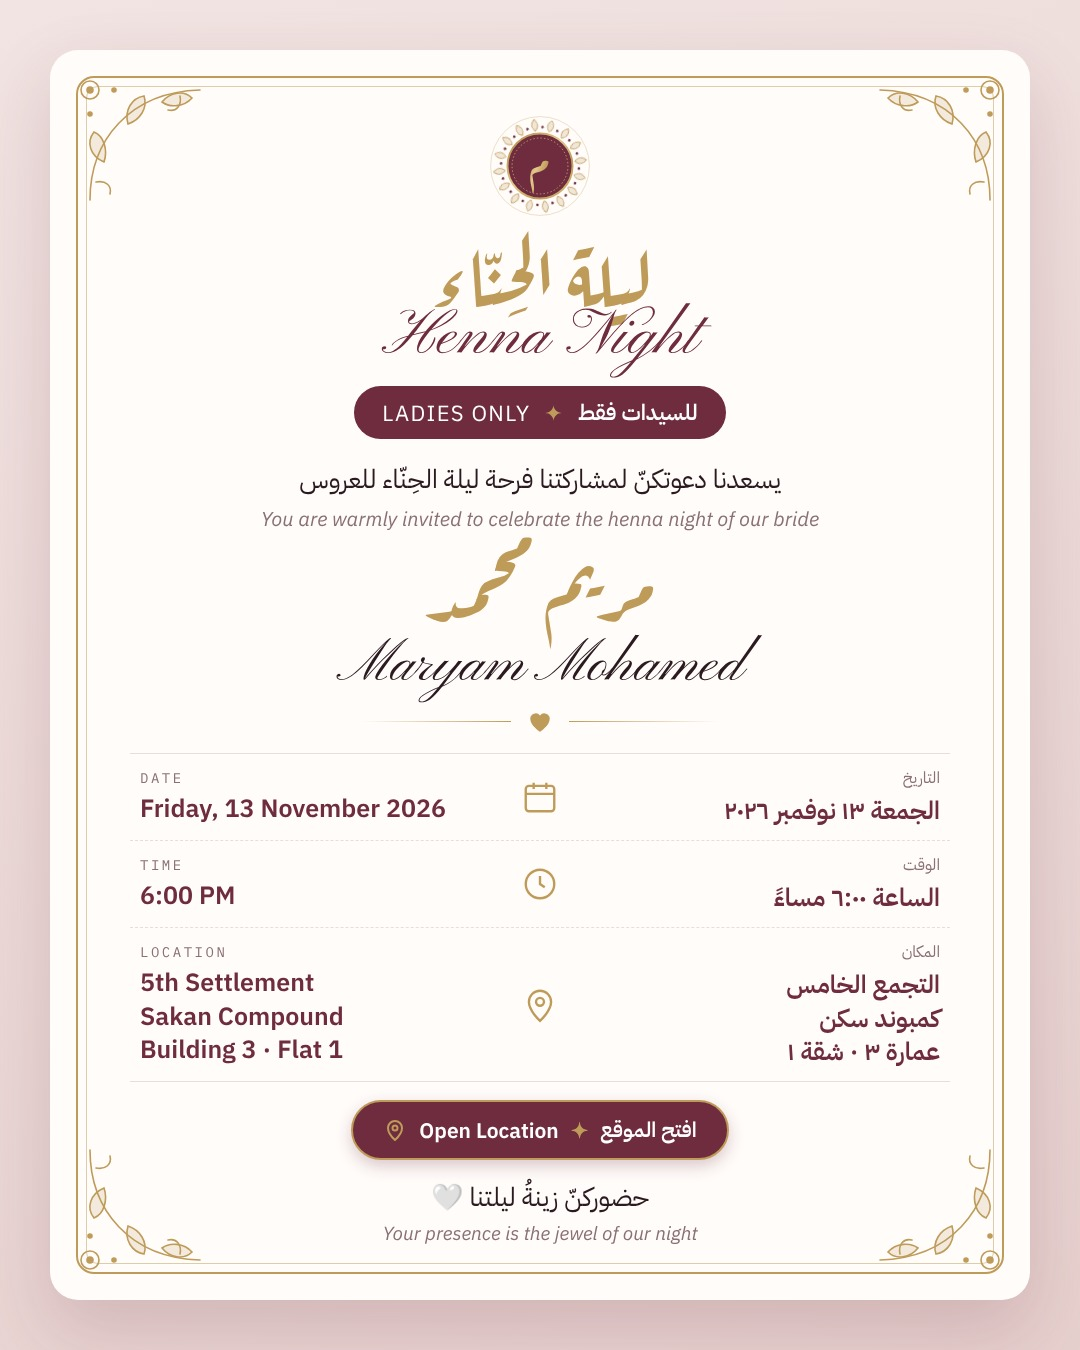
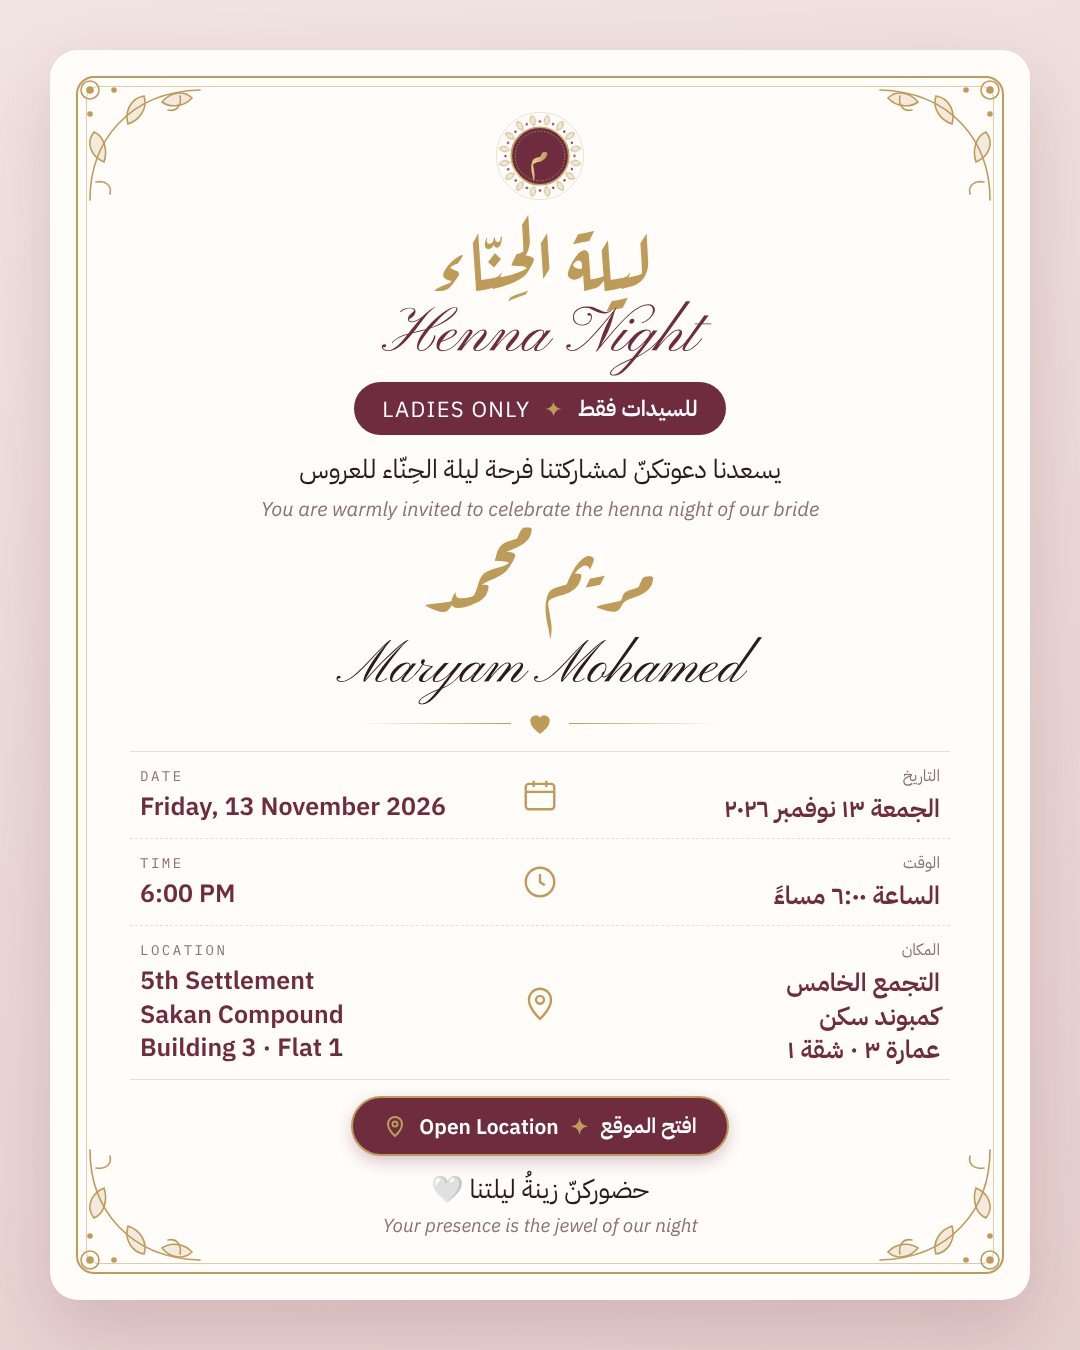
Envelope opening animation, phone layout, spacing fixes for overlapping text
Claude-Session: https://claude.ai/code/session_018cTkyYSzpqAWez1BLMQnpX

diff --git a/index.html b/index.html
@@ -29,22 +29,22 @@
   .c1{top:20px;left:20px}.c2{top:20px;right:20px;transform:scaleX(-1)}
   .c3{bottom:20px;left:20px;transform:scaleY(-1)}.c4{bottom:20px;right:20px;transform:scale(-1,-1)}
   .content{z-index:2;position:absolute;inset:60px 80px;display:flex;flex-direction:column;align-items:center;text-align:center}
-  .mandala{flex:none;width:104px;height:104px;margin-top:4px}
+  .mandala{flex:none;width:92px;height:92px;margin-top:0}
   .mandala .ring{animation:spin 60s linear infinite}
   @keyframes spin{to{transform:rotate(360deg)}}
   .ar-title{font-family:'Aref Ruqaa';color:var(--gold);font-size:84px;line-height:1.05;margin-top:4px}
-  .en-title{font-family:'Pinyon Script';color:var(--burg);font-size:64px;line-height:1;margin-top:-4px}
-  .badge{margin-top:16px;display:inline-flex;gap:14px;align-items:center;background:var(--burg);color:#fff;padding:10px 28px;border-radius:40px;font-size:22px;letter-spacing:.06em}
+  .en-title{font-family:'Pinyon Script';color:var(--burg);font-size:64px;line-height:1;margin-top:10px}
+  .badge{margin-top:14px;display:inline-flex;gap:14px;align-items:center;background:var(--burg);color:#fff;padding:10px 28px;border-radius:40px;font-size:22px;letter-spacing:.06em}
   .badge .ar{font-family:'IBM Plex Sans Arabic';font-weight:600;letter-spacing:0}
   .badge .dot{color:var(--gold)}
-  .intro-ar{font-family:'IBM Plex Sans Arabic';font-size:26px;color:var(--ink);margin-top:20px;direction:rtl;line-height:1.6}
+  .intro-ar{font-family:'IBM Plex Sans Arabic';font-size:26px;color:var(--ink);margin-top:14px;direction:rtl;line-height:1.6}
   .intro-en{font-size:20px;color:var(--muted);margin-top:4px;font-style:italic}
   .bride-ar{font-family:'Aref Ruqaa';color:var(--gold);font-size:76px;line-height:1.1;margin-top:12px}
-  .bride-en{font-family:'Pinyon Script';color:var(--ink);font-size:58px;line-height:1;margin-top:10px}
+  .bride-en{font-family:'Pinyon Script';color:var(--ink);font-size:58px;line-height:1;margin-top:22px}
   .divider{display:flex;align-items:center;gap:16px;margin:14px 0 2px;color:var(--gold)}
   .divider span{display:block;width:150px;height:1px;background:linear-gradient(90deg,transparent,var(--gold))}
   .divider span:last-child{background:linear-gradient(270deg,transparent,var(--gold))}
-  .details{width:100%;margin-top:18px;border-top:1px solid var(--rule);border-bottom:1px solid var(--rule)}
+  .details{width:100%;margin-top:14px;border-top:1px solid var(--rule);border-bottom:1px solid var(--rule)}
   .row{display:grid;grid-template-columns:1fr 70px 1fr;align-items:center;padding:12px 10px;border-bottom:1px dashed var(--rule)}
   .row:last-child{border-bottom:0}
   .locrow{color:inherit;text-decoration:none;cursor:pointer}
@@ -55,9 +55,9 @@
   .val{font-size:25px;font-weight:600;color:var(--burg);margin-top:4px;line-height:1.35}
   .ico{display:flex;justify-content:center}
   .ico svg{width:38px;height:38px}
-  .closing-ar{font-family:'IBM Plex Sans Arabic';font-size:26px;margin-top:18px;color:var(--ink);direction:rtl}
+  .closing-ar{font-family:'IBM Plex Sans Arabic';font-size:26px;margin-top:14px;color:var(--ink);direction:rtl}
   .closing-en{font-size:19px;color:var(--muted);font-style:italic;margin-top:4px}
-.mapbtn{margin-top:18px;display:inline-flex;align-items:center;gap:12px;background:var(--burg);color:#fff;text-decoration:none;padding:12px 30px;border-radius:40px;font-size:21px;font-weight:600;border:2px solid var(--gold);box-shadow:0 6px 16px rgba(110,44,62,.25)}
+.mapbtn{margin-top:16px;display:inline-flex;align-items:center;gap:12px;background:var(--burg);color:#fff;text-decoration:none;padding:12px 30px;border-radius:40px;font-size:21px;font-weight:600;border:2px solid var(--gold);box-shadow:0 6px 16px rgba(110,44,62,.25)}
   .mapbtn .ar{font-family:'IBM Plex Sans Arabic'}
   .mapbtn svg{width:24px;height:24px}
   #hearts{position:absolute;inset:0;z-index:1;pointer-events:none;overflow:hidden;border-radius:28px}
@@ -65,11 +65,91 @@
   #bg{position:fixed;inset:0;pointer-events:none;overflow:hidden}
   #bg svg{position:absolute;bottom:-60px;animation:rise linear infinite;opacity:0}
   @keyframes rise{0%{transform:translateY(0) rotate(-10deg);opacity:0}10%{opacity:.55}50%{transform:translateY(-55vh) translateX(25px) rotate(10deg)}90%{opacity:.5}100%{transform:translateY(-115vh) rotate(-10deg);opacity:0}}
+
+  /* ===== phone layout (portrait, < 700px): real-size text instead of a shrunken card ===== */
+  html.m,html.m body{overflow:auto;height:auto}
+  html.m body{display:block;min-height:100dvh}
+  html.m #stage{position:relative;left:auto;top:auto;transform:none!important;width:100%;height:auto;padding:10px;display:block}
+  html.m .card{width:100%;height:auto;min-height:calc(100dvh - 20px);border-radius:20px}
+  html.m .frame{inset:12px;border-radius:12px}html.m .frame2{inset:18px;border-radius:8px}
+  html.m .corner{width:72px;height:72px}
+  html.m .c1{top:8px;left:8px}html.m .c2{top:8px;right:8px}html.m .c3{bottom:8px;left:8px}html.m .c4{bottom:8px;right:8px}
+  html.m .content{position:relative;inset:auto;min-height:calc(100dvh - 20px);justify-content:center;padding:calc(var(--u)*34) calc(var(--u)*24) calc(var(--u)*30)}
+  html.m .mandala{width:calc(var(--u)*62);height:calc(var(--u)*62)}
+  html.m .ar-title{font-size:calc(var(--u)*50);margin-top:calc(var(--u)*4)}
+  html.m .en-title{font-size:calc(var(--u)*38);margin-top:calc(var(--u)*8)}
+  html.m .badge{font-size:calc(var(--u)*13);padding:calc(var(--u)*6) calc(var(--u)*16);gap:calc(var(--u)*8);margin-top:calc(var(--u)*12)}
+  html.m .intro-ar{font-size:calc(var(--u)*16);margin-top:calc(var(--u)*12)}
+  html.m .intro-en{font-size:calc(var(--u)*12.5);text-wrap:balance}
+  html.m .val{text-wrap:balance}
+  html.m .bride-ar{font-size:calc(var(--u)*46);margin-top:calc(var(--u)*8)}
+  html.m .bride-en{font-size:calc(var(--u)*36);margin-top:calc(var(--u)*14)}
+  html.m .divider{margin:calc(var(--u)*10) 0 0}html.m .divider span{width:calc(var(--u)*80)}
+  html.m .details{margin-top:calc(var(--u)*12)}
+  html.m .row{grid-template-columns:1fr calc(var(--u)*34) 1fr;padding:calc(var(--u)*9) calc(var(--u)*4)}
+  html.m .lbl{font-size:calc(var(--u)*9.5);letter-spacing:.14em}html.m .ar .lbl{font-size:calc(var(--u)*11)}
+  html.m .val{font-size:calc(var(--u)*14);margin-top:calc(var(--u)*2)}
+  html.m .ico svg{width:calc(var(--u)*24);height:calc(var(--u)*24)}
+  html.m .mapbtn{font-size:calc(var(--u)*15);padding:calc(var(--u)*11) calc(var(--u)*22);gap:calc(var(--u)*8);margin-top:calc(var(--u)*16)}
+  html.m .mapbtn svg{width:calc(var(--u)*18);height:calc(var(--u)*18)}
+  html.m .closing-ar{font-size:calc(var(--u)*17);margin-top:calc(var(--u)*14)}
+  html.m .closing-en{font-size:calc(var(--u)*12.5)}
+
+  /* ===== envelope intro ===== */
+  #env{position:fixed;inset:0;z-index:50;display:flex;flex-direction:column;align-items:center;justify-content:center;gap:28px;cursor:pointer;
+       background:radial-gradient(ellipse at 50% 40%,#F6ECEA 0%,#E6D0CE 75%);transition:opacity .8s ease,transform .8s ease;-webkit-tap-highlight-color:transparent;outline:none}
+  #env.gone{opacity:0;transform:scale(1.04);pointer-events:none}
+  .env{--ew:min(84vw,520px,calc(70vh / .68));position:relative;width:var(--ew);height:calc(var(--ew) * .68);perspective:1400px;filter:drop-shadow(0 26px 40px rgba(110,44,62,.28));animation:float 3.2s ease-in-out infinite}
+  #env.open .env{animation:none}
+  @keyframes float{0%,100%{transform:translateY(0)}50%{transform:translateY(-8px)}}
+  .env>*{position:absolute}
+  .env-back{inset:0;background:linear-gradient(160deg,#5E2435,#6E2C3E);border-radius:12px;z-index:0}
+  .env-letter{left:6%;right:6%;top:7%;height:86%;background:#FFFCFA;border-radius:8px;z-index:2;display:flex;flex-direction:column;align-items:center;justify-content:flex-start;padding-top:9%;
+              box-shadow:0 0 0 1px rgba(191,155,90,.6) inset,0 0 0 calc(var(--ew)*.014) #FFFCFA inset,0 0 0 calc(var(--ew)*.016) rgba(191,155,90,.45) inset;transition:transform 1s cubic-bezier(.2,.8,.2,1)}
+  .env-letter .l-ar{font-family:'Aref Ruqaa';font-weight:700;color:#BF9B5A;font-size:calc(var(--ew)*.105);line-height:1}
+  .env-letter .l-en{font-family:'Pinyon Script';color:#6E2C3E;font-size:calc(var(--ew)*.075);margin-top:calc(var(--ew)*.035);line-height:1}
+  .env-front{inset:0;z-index:3;width:100%;height:100%}
+  .env-flap{left:0;top:0;width:100%;height:60%;z-index:4;transform-origin:50% 0;transition:transform .75s cubic-bezier(.4,0,.2,1)}
+  #env.open .env-flap{transform:rotateX(180deg)}
+  #env.flapped .env-flap{z-index:1}
+  #env.rise .env-letter{transform:translateY(-62%)}
+  .env-seal{left:50%;top:60%;z-index:5;width:calc(var(--ew)*.18);height:calc(var(--ew)*.18);transform:translate(-50%,-50%);border-radius:50%;
+            background:radial-gradient(circle at 35% 30%,#9A3A52,#6E2C3E 60%,#561F2F);box-shadow:0 0 0 calc(var(--ew)*.008) #D9BC7C,0 0 0 calc(var(--ew)*.016) #8E3449,0 6px 14px rgba(0,0,0,.3);
+            display:flex;align-items:center;justify-content:center;font-family:'Aref Ruqaa';font-weight:700;color:#E3C88A;font-size:calc(var(--ew)*.09);transition:transform .45s ease,opacity .45s ease}
+  .env-seal span{transform:translateY(-6%)}
+  #env.open .env-seal{transform:translate(-50%,-50%) scale(.3) rotate(-25deg);opacity:0}
+  .env-hint{display:flex;flex-direction:column;align-items:center;gap:4px;color:#6E2C3E;text-align:center;animation:pulse 1.8s ease-in-out infinite;transition:opacity .4s}
+  .env-hint .a{font-family:'IBM Plex Sans Arabic';font-weight:600;font-size:clamp(16px,4.4vw,22px)}
+  .env-hint .e{font-family:'IBM Plex Sans';font-size:clamp(11px,3vw,14px);letter-spacing:.32em;text-transform:uppercase;color:#8A6F74}
+  #env.open .env-hint{animation:none;opacity:0}
+  @keyframes pulse{0%,100%{opacity:1}50%{opacity:.55}}
+  html.env-on .card{opacity:0;transform:translateY(24px) scale(.95)}
+  .card{transition:opacity 1s ease,transform 1.1s cubic-bezier(.2,.8,.2,1)}
   @media (prefers-reduced-motion:reduce){#bg,#hearts{display:none}.mandala .ring{animation:none}}
 </style>
+<noscript><style>#env{display:none}html.env-on .card{opacity:1;transform:none}</style></noscript>
 </head>
 <body>
 <div id="bg"></div>
+<div id="env" role="button" tabindex="0" aria-label="Open the invitation · افتحي الدعوة">
+  <div class="env">
+    <div class="env-back"></div>
+    <div class="env-letter"><div class="l-ar">ليلة الحِنّاء</div><div class="l-en">Henna Night</div></div>
+    <svg class="env-front" viewBox="0 0 100 68" preserveAspectRatio="none">
+      <polygon points="0,0 52,38 0,68" fill="#7A3247"/>
+      <polygon points="100,0 48,38 100,68" fill="#7A3247"/>
+      <polygon points="0,68 50,30 100,68" fill="#843950"/>
+      <polyline points="1.5,66.5 50,31.8 98.5,66.5" fill="none" stroke="#D9BC7C" stroke-width=".35" vector-effect="non-scaling-stroke" opacity=".8"/>
+    </svg>
+    <svg class="env-flap" viewBox="0 0 100 40.8" preserveAspectRatio="none">
+      <polygon points="0,0 100,0 50,40.8" fill="#6A2A3D"/>
+      <polyline points="2,1 50,39 98,1" fill="none" stroke="#D9BC7C" stroke-width=".35" opacity=".85"/>
+    </svg>
+    <div class="env-seal"><span>م</span></div>
+  </div>
+  <div class="env-hint"><span class="a">اضغطي لفتح الدعوة</span><span class="e">Tap to open</span></div>
+</div>
+
 <div id="stage"><div class="card">
   <div class="frame"></div><div class="frame2"></div>
 
@@ -172,16 +252,32 @@ function rnd(i,k){const x=Math.sin(i*127.1+k*311.7)*43758.5453;return x-Math.flo
 for(let i=0;i<N;i++){const sz=16+rnd(i,1)*30,c=cols[i%cols.length];
  const e=document.createElementNS('http://www.w3.org/2000/svg','svg');e.setAttribute('viewBox','0 0 24 22');e.setAttribute('width',sz);e.setAttribute('height',sz*22/24);
  e.innerHTML='<path d="M12 21s-9-5.6-9-12A5 5 0 0 1 12 6a5 5 0 0 1 9 3c0 6.4-9 12-9 12z" fill="'+c+'"/>';L.appendChild(e);
- H.push({e,sz,x:40+rnd(i,2)*900,ph:i/N,sw:20+rnd(i,3)*30,cyc:1+Math.floor(rnd(i,4)*2),rot:(rnd(i,5)-.5)*40,op:.3+rnd(i,6)*.3})}
-window.renderT=function(t){for(const h of H){const p=((t/D)+h.ph)%1;const y=1290-p*1400;
- const x=h.x+h.sw*Math.sin(2*Math.PI*(p*h.cyc*2+h.ph*3));const f=Math.min(1,p/.12,(1-p)/.15);
- h.e.style.transform=`translate(${x}px,${y}px) rotate(${h.rot*Math.sin(2*Math.PI*p*2)}deg)`;h.e.style.opacity=h.op*Math.max(0,f)}
+ H.push({e,sz,xr:rnd(i,2),ph:i/N,sw:20+rnd(i,3)*30,cyc:1+Math.floor(rnd(i,4)*2),rot:(rnd(i,5)-.5)*40,op:.3+rnd(i,6)*.3})}
+let CW=980,CH=1250;window.renderT=function(t){const ks=Math.min(1,Math.max(.55,CW/980));for(const h of H){const p=((t/D)+h.ph)%1;const y=CH+40-p*(CH+150);
+ const x=20+h.xr*(CW-70)+h.sw*Math.sin(2*Math.PI*(p*h.cyc*2+h.ph*3));const f=Math.min(1,p/.12,(1-p)/.15);
+ h.e.style.transform=`translate(${x}px,${y}px) rotate(${h.rot*Math.sin(2*Math.PI*p*2)}deg) scale(${ks})`;h.e.style.opacity=h.op*Math.max(0,f)}
  const s=1+.18*Math.max(0,Math.sin(2*Math.PI*t))**3;document.getElementById('pulse').style.transform=`scale(${s})`};
 (function(){const bg=document.getElementById('bg');const c=['#BF9B5A','#6E2C3E','#D9A9B0','#C98E98'];
 for(let i=0;i<16;i++){const z=14+Math.random()*26,e=document.createElementNS('http://www.w3.org/2000/svg','svg');e.setAttribute('viewBox','0 0 24 22');e.setAttribute('width',z);e.setAttribute('height',z);
 e.innerHTML='<path d="M12 21s-9-5.6-9-12A5 5 0 0 1 12 6a5 5 0 0 1 9 3c0 6.4-9 12-9 12z" fill="'+c[i%4]+'"/>';
 e.style.left=(Math.random()*96)+'vw';e.style.animationDuration=(9+Math.random()*8)+'s';e.style.animationDelay=(-Math.random()*16)+'s';bg.appendChild(e)}})();
-function fit(){const k=Math.min(innerWidth/1080,innerHeight/1350);document.getElementById('stage').style.transform=`translate(-50%,-50%) scale(${k})`}
+function fit(){const de=document.documentElement,m=innerWidth<700&&innerHeight>innerWidth*1.15;de.classList.toggle('m',m);
+ const st=document.getElementById('stage');
+ if(m){const ct=document.querySelector('.content');de.style.setProperty('--u','1px');ct.style.minHeight='0';const nat=ct.scrollHeight;ct.style.minHeight='';
+  const u=Math.max(.8,Math.min((innerWidth-20)/366,(innerHeight-20)/nat));de.style.setProperty('--u',u+'px')}else{de.style.removeProperty('--u')}
+ if(!m){const k=Math.min(innerWidth/1080,innerHeight/1350);st.style.transform=`translate(-50%,-50%) scale(${k})`}
+ const c=document.querySelector('.card');CW=c.offsetWidth;CH=c.offsetHeight}
+// envelope
+(function(){const env=document.getElementById('env'),de=document.documentElement;
+ if(window.__noenv||matchMedia('(prefers-reduced-motion: reduce)').matches){env.remove();return}
+ de.classList.add('env-on');let done=false;
+ function open(){if(done)return;done=true;env.classList.add('open');
+  setTimeout(()=>env.classList.add('flapped'),420);
+  setTimeout(()=>env.classList.add('rise'),700);
+  setTimeout(()=>{env.classList.add('gone');de.classList.remove('env-on')},1650);
+  setTimeout(()=>env.remove(),2600)}
+ env.addEventListener('click',open);env.addEventListener('keydown',e=>{if(e.key==='Enter'||e.key===' '){e.preventDefault();open()}});
+ env.focus({preventScroll:true});})();
 addEventListener('resize',fit);fit();
 const t0=performance.now();(function loop(){renderT((performance.now()-t0)/1000);requestAnimationFrame(loop)})();
 </script>
